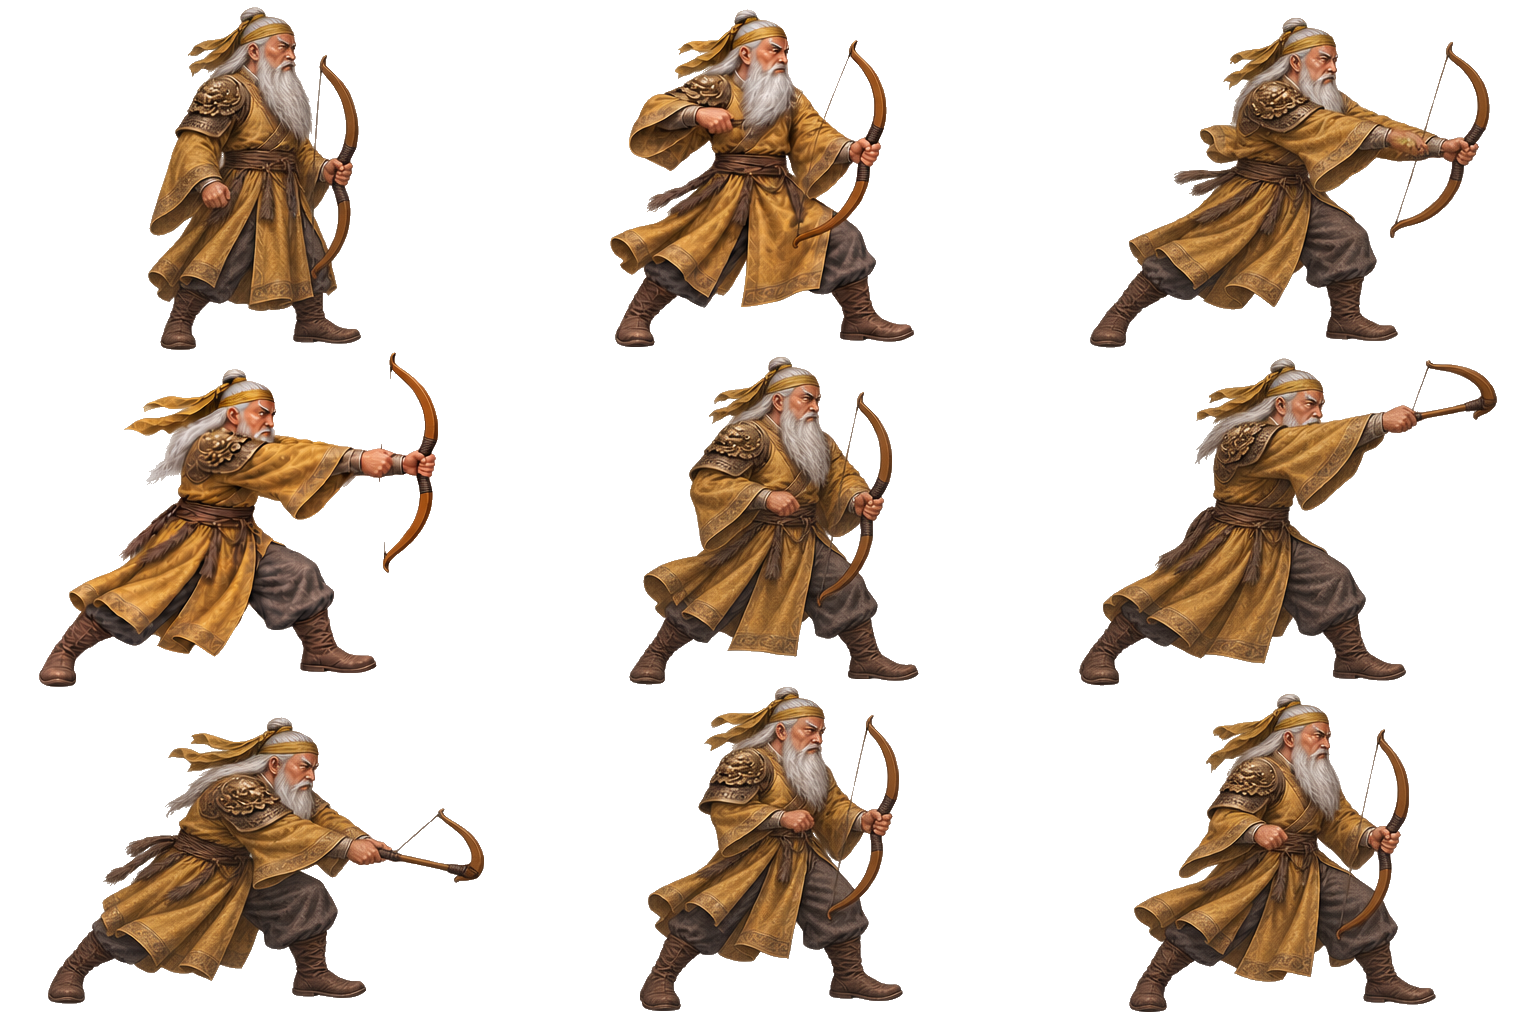
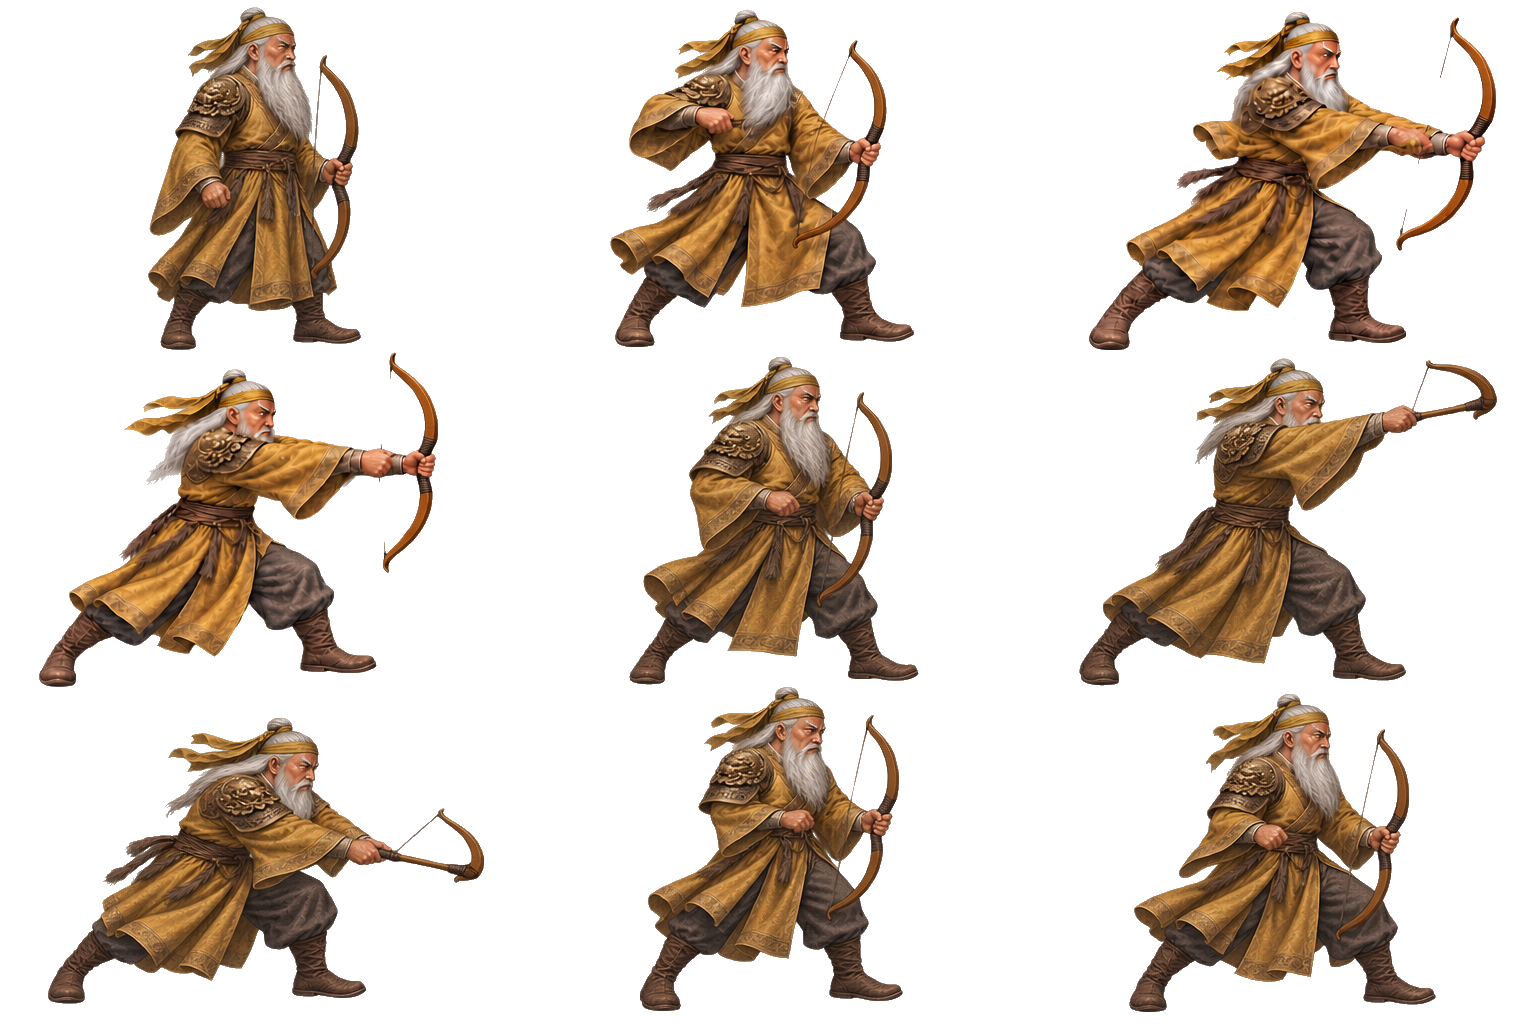
Loop tick: IN_PROGRESS CMR-12A - jab1 ACCEPTED via fix-3 (ef0e14d8, cell 2 190->224px) + splice v2 5a750da4: keep-set 8.96% marginal pass overlay-verified, direction 19.6 deg; ledger 5/16

Changed region(s): [[0.6875, 0.0, 1.0, 0.3438]]

diff --git a/art/motion/huangzhong/PROVENANCE.md b/art/motion/huangzhong/PROVENANCE.md
@@ -1,9 +1,9 @@
 # Huang Zhong provenance (CMR-12A)
 
-- Authoring: 4/16 used (walk ACCEPTED; jab1 fix-2 fixed cell 3
-  via vertical pivot; spliced v1 measured 14.51% FAIL on cell-2
-  shortfall — fix-3 next). Global 96/200; jab1 sheet still 1/2.
-  Repair reserve 3/3 untouched (shared with CMR-12B, acceptance-4 only).
+- Authoring: 5/16 used (walk + jab1 ACCEPTED; jab1 via 3
+  focused fixes + splice v2, keep spread 8.96%). Global 97/200;
+  jab1 sheet still 1/2. Repair reserve 3/3 untouched (shared
+  with CMR-12B, acceptance-4 only).
 - Masters (inspected 2026-10-05, before any request): body
   `338d9c9e…`, portrait `4dcac826…`. Identity locked in
   `IDENTITY.md`; weapon from rig files only
@@ -15,6 +15,35 @@
   mechanical audit, overlay-verified verdict, remaining allowance.
 
 ## Attempt log
+
+### Request 5/16 — jab1 fix-3 (cell 2 longer) + splice v2 + keep-set 8.96% PASS → ACCEPTED 2026-10-05
+
+- Reserve-before-call: `reserve(..., focused/jab1)` → used 5,
+  remaining 11, total 97 (guard: expected used=4, held).
+- Exact prompt: `jab1-fix3-prompt.txt` (ONLY cell 2, pose kept,
+  bow ~8–10% longer into 205–210). Ordered refs: fix-2 `8221b0bf`
+  (vehicle, FIRST), weapon-spec, walk, body, portrait. One image.
+- Output: `jab1-fix-3.png` sha
[1 lines of base64/hex data omitted]
+  (1536×1024). Mechanical: 9/9, 0 edge. 3x zone read: lunge kept,
+  single bow + string + air, visibly longer — provider OVERSHOT
+  to 224.4px (target was 205–210; overshoot pattern noted).
+- Splice v2 (script updated: REPLACE now {1: fix-1, 2: fix-3,
+  3: fix-2}): SHA-pinned, gates + hash proof + byte-identical
+  rerun (one scare: a Windows-missing-`head` pipe broke the first
+  determinism check's harness, NOT the code — clean rerun proved
+  identical; use Select-Object on pwsh) → `jab1-prepared-source.png`
+  v2 sha `5a750da4` (supersedes v1 `c593c6f9`, never accepted).
+- Keep-set [0..4] on v2 (overlay read; all 10 markers on wood):
+  [205.0,212.8,224.4,220.1,219.1], mean 214.3, spread **8.96%
+  marginal source-level PASS** (±2% read tolerance disclosed —
+  same class as walk 9.09% / weiyan-jab2 9.95%); direction max
+  step 19.6° PASS. Culls: 5,6 (partial thrust bows), 7,8 (unused
+  guard spares).
+- Verdict: jab1 source ACCEPTED. Cost 4 requests (sheet + 3
+  focused). Lesson banked: provider cannot draw sideways recurves
+  (0/6) but draws vertical ones reliably — brief ALL future melee
+  action bows vertical (thrust = body lunges, bow stays upright).
 
 ### Request 4/16 — jab1 fix-2 (cell 3 vertical pivot) + splice v1 + keep-set 14.51% FAIL 2026-10-05
 

diff --git a/PROGRESS.md b/PROGRESS.md
@@ -22,6 +22,40 @@ history slowly crowds out the work it is supposed to support.
 
 ## Entries
 #
+### 2026-10-05 05:47 UTC - CMR-12A (attempt 1, IN_PROGRESS - jab1 ACCEPTED via fix-3 + splice v2, 8.96% marginal pass)
+
+- Status before: CMR-12A IN_PROGRESS (jab1 splice v1 failed on
+  cell 2, 4/16). No PENDING FILING, review 2/4 (not due),
+  unrelated `.gitignore` untouched.
+- Work completed: reserved fix-3 BEFORE the call (5/16, global
+  97/200) and generated `jab1-fix-3.png` sha `ef0e14d8` (one
+  image; cell 2 bow longer, pose kept). 3x zone read: lunge +
+  single bow + string + air intact, chord 224.4 (overshot the
+  205–210 target but in-band). Re-spliced v2 (script: REPLACE +
+  {1: fix-1, 2: fix-3, 3: fix-2}): SHA pins, gates, hash proof,
+  byte-identical rerun → sha `5a750da4` (supersedes unaccepted
+  v1). Keep-set [0..4] overlay-verified (all 10 markers on wood):
+  [205.0,212.8,224.4,220.1,219.1], spread **8.96% marginal PASS**
+  (±2% disclosed); direction max 19.6° pass. Culls 5,6 (partial),
+  7,8 (unused guards). Jab1 ACCEPTED (4 requests). Banked rule:
+  provider draws vertical recurves reliably, sideways never (0/6)
+  — all future melee bows vertical. Process note: Windows pwsh has
+  no `head` — a pipe broke one determinism check's harness (not
+  the code); clean rerun proved identical.
+- Verification run: `npx vitest run test/game/motion-budget.test.ts
+  test/game/motion-pipeline.test.ts` 36/36; `npm run lint`, `npm
+  run typecheck` green. No vision/prodbuild/e2e (unwired art only).
+- Files changed: `generation-budget.json` (5/16), `jab1-fix-3.png`
+  + `jab1-fix3-prompt.txt` + `jab1-prepared-source.png` v2
+  (force-added), splice script (v2), PROVENANCE.md, AUTHORING-
+  PLAN.md, TASKS.md, PROGRESS.md.
+- Result/status after: CMR-12A IN_PROGRESS (attempt 1, 5/16).
+  Walk + jab1 accepted (2/10 sequences).
+- Remaining work or blocker: jab2 sheet candidate 1/2 (vertical
+  bows throughout per banked rule). No blocker.
+- Next recommended task: CMR-12A jab2 sheet (reserve first;
+  hz.jab2 7dmg/24 reach/6/4/10).
+
 ### 2026-10-05 05:38 UTC - CMR-12A (attempt 1, IN_PROGRESS - jab1 fix-2 fixed cell 3, splice v1 measured 14.51% FAIL on cell-2 shortfall)
 
 - Status before: CMR-12A IN_PROGRESS (jab1 fix-1 partial, 3/16).

diff --git a/TASKS.md b/TASKS.md
@@ -425,9 +425,11 @@ Selection: due producer review first, then the earliest ready CMR task; continue
   complete recurve, chord 220.1). Spliced v1 (`c593c6f9`,
   deterministic, hash-proofed) but keep-set FAILS 14.51%
   (cell 2 short at 189.7 vs 205–220 cluster; direction 19.6°
-  pass). Next: fix-3 (cell 2 bow longer, pose kept) + re-splice
-  v2 + re-measure. Ledger 4/16, global 96/200; repair reserve
-  3/3 untouched).
+  pass). Fix-3 (`ef0e14d8`) lengthened cell 2 (190→224px,
+  overshot but in-band); splice v2 (`5a750da4`, deterministic)
+  keep-set 8.96% marginal PASS, direction 19.6° pass → jab1
+  ACCEPTED (4 requests). Rule: all melee bows vertical.
+  Ledger 5/16, global 97/200; repair reserve 3/3 untouched).
 - Dependency: CMR-11B DONE (earlier foundation dependencies apply transitively)
 - Specification: [CMR-12A](docs/motion-tasks/CMR-12A.md); read with [shared contract](docs/CAST_MOTION_ROLLOUT.md).
 - Acceptance: Complete applicable huangzhong identity/actions/registration/provenance/landmark budgets; offline review; no partial runtime activation.

diff --git a/art/motion/huangzhong/AUTHORING-PLAN.md b/art/motion/huangzhong/AUTHORING-PLAN.md
@@ -1,10 +1,10 @@
 # Huang Zhong authoring plan (CMR-12A, attempt 1)
 
-Status: walk ACCEPTED; jab1 fix-2 fixed c3 (vertical pivot ✓), splice v1 FAILS 14.51% on c2 shortfall — fix-3 (c2 bow longer) next; 4/16 spent.
+Status: walk + jab1 ACCEPTED (jab1: 8.96% via 3 focused fixes); 5/16 spent. Rule: all melee bows vertical.
 
 ## Budget (authoritative ledger: `art/motion/generation-budget.json`)
 
-- huangzhong cap 16, used 4 (+jab1 fix-2). Global 96/200.
+- huangzhong cap 16, used 5 (+jab1 fix-3). Global 97/200.
   Two whole-sheet candidates per sequence, unchanged (jab1
   sheet still 1/2).
 - Plan: 10 whole sheets = 10 requests → 10/16, 6 spares for focused
